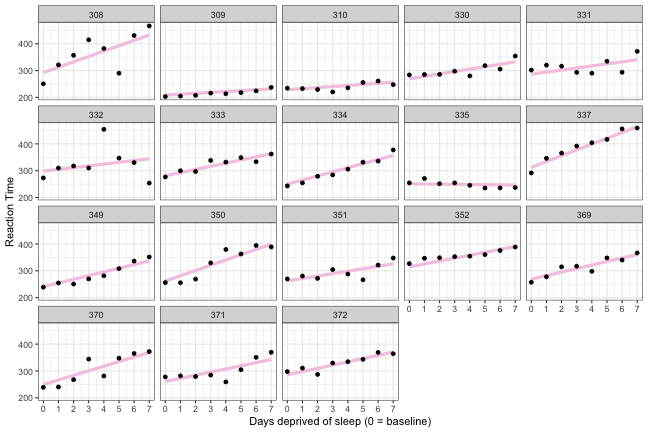
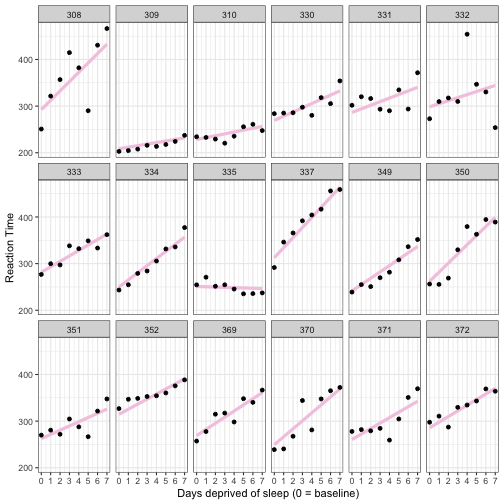
test.'

diff --git a/content/slides/lme/lmer.html b/content/slides/lme/lmer.html
@@ -783,8 +783,8 @@ Partial pooling
 The effects of **sleep deprivation** on psychomotor performance / reaction time (Belenky et al., 2003)
 
 .pull-left[#### Multilevel data with continuous predictor
-<div id="htmlwidget-6140d1dcdd2086278733" style="width:100%;height:auto;" class="datatables html-widget"></div>
-<script type="application/json" data-for="htmlwidget-6140d1dcdd2086278733">{"x":{"filter":"none","fillContainer":false,"data":[["1","2","3","4","5","6","7","8","9","10"],[249.56,258.7047,250.8006,321.4398,356.8519,414.6901,382.2038,290.1486,430.5853,466.3535],[0,1,2,3,4,5,6,7,8,9],["308","308","308","308","308","308","308","308","308","308"]],"container":"<table class=\"display\">\n  <thead>\n    <tr>\n      <th> <\/th>\n      <th>Reaction<\/th>\n      <th>Days<\/th>\n      <th>Subject<\/th>\n    <\/tr>\n  <\/thead>\n<\/table>","options":{"pageLength":4,"columnDefs":[{"className":"dt-right","targets":[1,2]},{"orderable":false,"targets":0}],"order":[],"autoWidth":false,"orderClasses":false,"lengthMenu":[4,10,25,50,100]}},"evals":[],"jsHooks":[]}</script>
+<div id="htmlwidget-ea74624a3fdcbfcd6aec" style="width:100%;height:auto;" class="datatables html-widget"></div>
+<script type="application/json" data-for="htmlwidget-ea74624a3fdcbfcd6aec">{"x":{"filter":"none","fillContainer":false,"data":[["1","2","3","4","5","6","7","8","9","10"],[249.56,258.7047,250.8006,321.4398,356.8519,414.6901,382.2038,290.1486,430.5853,466.3535],[0,1,2,3,4,5,6,7,8,9],["308","308","308","308","308","308","308","308","308","308"]],"container":"<table class=\"display\">\n  <thead>\n    <tr>\n      <th> <\/th>\n      <th>Reaction<\/th>\n      <th>Days<\/th>\n      <th>Subject<\/th>\n    <\/tr>\n  <\/thead>\n<\/table>","options":{"pageLength":4,"columnDefs":[{"className":"dt-right","targets":[1,2]},{"orderable":false,"targets":0}],"order":[],"autoWidth":false,"orderClasses":false,"lengthMenu":[4,10,25,50,100]}},"evals":[],"jsHooks":[]}</script>
 ]
 .pull-right[#### Plot the data
 
@@ -997,7 +997,7 @@ ggplot(sleep2, aes(x = days_deprived, y = Reaction)) +
             color = '#f4cae2', size = 1.5) +
   geom_point() + theme_bw() +
   scale_x_continuous(breaks = 0:7) +
-  facet_wrap(~Subject) +
+  facet_wrap(~Subject, nrow = 3) +
   labs(y = "Reaction Time", 
        x = "Days deprived of sleep (0 = baseline)")
 ```
